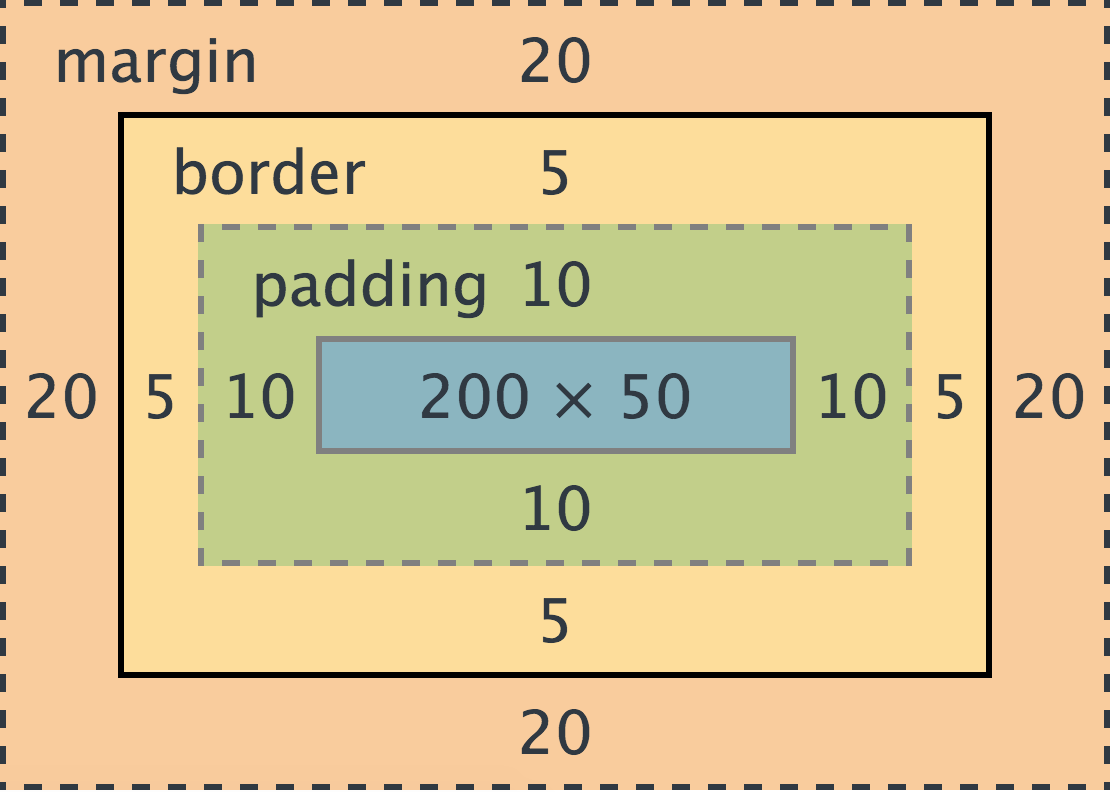
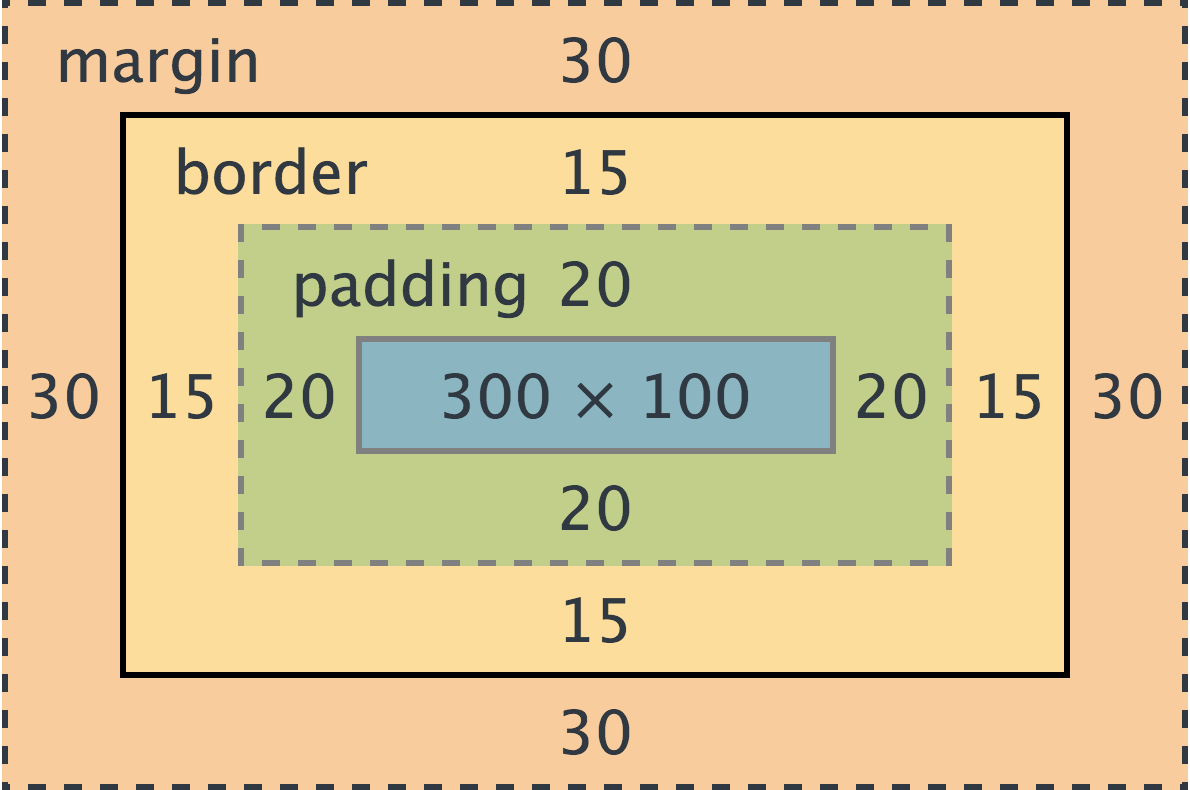
fjerner border-box, forklarer mindre box-model men mer hva margin padding osv. gjør. Fikser oppgaveteksten basert på at man nå får et utgangspunkt

diff --git a/del1/slides/index.html b/del1/slides/index.html
@@ -547,13 +547,13 @@ selector {
   border-color: rgba(255, 0, 0, 0.3);
 
   width: 200px;
-  width: 20rem;
   width: 50%;
+  width: 20rem;
   width: 25vw;
 
   margin: 5px;
-  margin: 5px 10px;
-  margin-top: 20px;
+  padding: 10px;
+  opacity: 0.5;
 
   border-width: 1px;
   border-style: solid;
@@ -776,36 +776,15 @@ class: center middle
 
 ---
 
-#Box model
-
-```css
-.min-boks {
-  width: 200px;
-  height: 50px;
-  padding: 10px;
-  border: 5px solid red;
-  margin: 20px;
-}
-```
-
-<img src="resources/boxmodel.png" style="width: 50%; position: absolute; right: 50px; top: 120px;">
-
-
-???
-
-
-Pakke-metafor.
-
----
-
 #Box sizing
 
 ```css
-div {
+.min-boks {
   width: 300px;
   height: 100px;
   padding: 0px;
   border: 0px solid #FD5158;
+  margin: 0px;
 }
 ```
 
@@ -819,11 +798,12 @@ div {
 #Box sizing
 
 ```css
-div {
+.min-boks {
   width: 300px;
   height: 100px;
   padding: 20px;
   border: 0px solid #FD5158;
+  margin: 0px;
 }
 ```
 
@@ -837,11 +817,12 @@ div {
 #Box sizing
 
 ```css
-div {
+.min-boks {
   width: 300px;
   height: 100px;
   padding: 20px;
   border: 15px solid #FD5158;
+  margin: 0px;
 }
 ```
 
@@ -849,9 +830,52 @@ div {
   padding: 20px;
   background: black;
   border: 15px solid #FD5158;">Lorem ipsum</div>
+---
+
+#Box sizing
+
+```css
+.min-boks {
+  width: 300px;
+  height: 100px;
+  padding: 20px;
+  border: 15px solid #FD5158;
+  margin: 0px;
+}
+```
+
+<div style="width: 300px; height: 100px;
+  padding: 20px;
+  background: black;
+  border: 15px solid #FD5158; display: inline-block;">Lorem ipsum</div><div style="width: 300px; height: 100px;
+  padding: 20px;
+  background: black;
+  border: 15px solid #FD5158; display: inline-block;">Lorem ipsum</div>
 
 ---
 
+#Box sizing
+
+```css
+.min-boks {
+  width: 300px;
+  height: 100px;
+  padding: 20px;
+  border: 15px solid #FD5158;
+  margin: 30px;
+}
+```
+
+<div style="width: 300px; height: 100px;
+  padding: 20px;
+  background: black;
+  border: 15px solid #FD5158; display: inline-block; margin: 20px;">Lorem ipsum</div><div style="width: 300px; height: 100px;
+  padding: 20px;
+  background: black;
+  border: 15px solid #FD5158; display: inline-block; margin: 20px;">Lorem ipsum</div>
+
+---
+exclude:true
 #Box sizing: border-box
 
 ```css
@@ -870,6 +894,7 @@ div {
 
 ---
 
+exclude:true
 #Box sizing: border-box
 
 ```css
@@ -887,7 +912,7 @@ div {
   border: 0px solid #FD5158;">Lorem ipsum</div>
 
 ---
-
+exclude:true
 #Box sizing: border-box
 
 ```css
@@ -905,12 +930,40 @@ div {
   border: 15px solid #FD5158;">Lorem ipsum</div>
 
 --
-
+exclude:true
 
 <div style="width: 300px; height: 100px;
   padding: 20px;
   background: black;
   border: 15px solid #FD5158;">Lorem ipsum</div>
+
+---
+
+#Box model
+
+```css
+.min-boks {
+  width: 300px;
+  height: 100px;
+  padding: 20px;
+  border: 15px solid #FD5158;
+  margin: 30px;
+}
+```
+
+<div style="width: 300px; height: 100px;
+  padding: 20px;
+  background: black;
+  border: 15px solid #FD5158; display: inline-block; margin: 20px;">Lorem ipsum</div>
+  
+
+<img src="resources/boxmodel.png" style="width: 50%; position: absolute; right: 50px; top: 120px;">
+
+
+???
+
+
+Pakke-metafor.
 
 ---
 
@@ -928,6 +981,10 @@ div {
 </div>
 ```
 
+```css
+h1 { display: block; }
+```
+
 <div style="background-color: #1a1a1a; font-size: 25px;">
   <h1 style="margin-bottom: 5px;">Overskrift</h1>
   <p>Litt tekst</p>
@@ -936,6 +993,7 @@ div {
   <a href="#">Lenke</a>
   <div>mer tekst</div>
 </div>
+
 
 ???
 
@@ -978,7 +1036,7 @@ Blir jo ikke veldig spenstige design når alt bare kommer slik etter hverandre, 
 # Midtstilling
 
 ```html
-<div class="midtstilt-blokk">Midtstilt?</div>
+<div class="midtstilt-blokk">Midstilt blokk</div>
 ```
 ```css
 .midtstilt-blokk {
@@ -987,7 +1045,7 @@ Blir jo ikke veldig spenstige design når alt bare kommer slik etter hverandre, 
   margin-right: auto;
 }
 ```
-<div style="background: black; width: 400px; margin: 0 auto;">Overskrift</div>
+<div style="background: black; width: 400px; margin: 0 auto;">Midtstilt blokk</div>
 
 
 
@@ -1218,11 +1276,9 @@ class: split
 # Oppgave
 
 * Ta utgangspunkt i `nedteller.html`-fila i `/assignment`-mappa.
-* Lag et `<main>`-element og putt alt innholdet i det.
- *  Gi det en bredde og midtstill det
-* Midtstill telleren og gi den en stor skriftstørrelse.
-* Lag en div og putt 10 stk `<button>` inni den
- * Bruk flexbox på diven for å få knappene til å ligge som til høyre
+* Gi `<main>`-elementet en bredde og midtstill det.
+* Midtstill teksten til telleren
+* Bruk flexbox på div-en med alle knappene (`.buttons`) for å få knappene til å ligge som vist til høyre
 * Midtstill og style start-knappen
 
 
